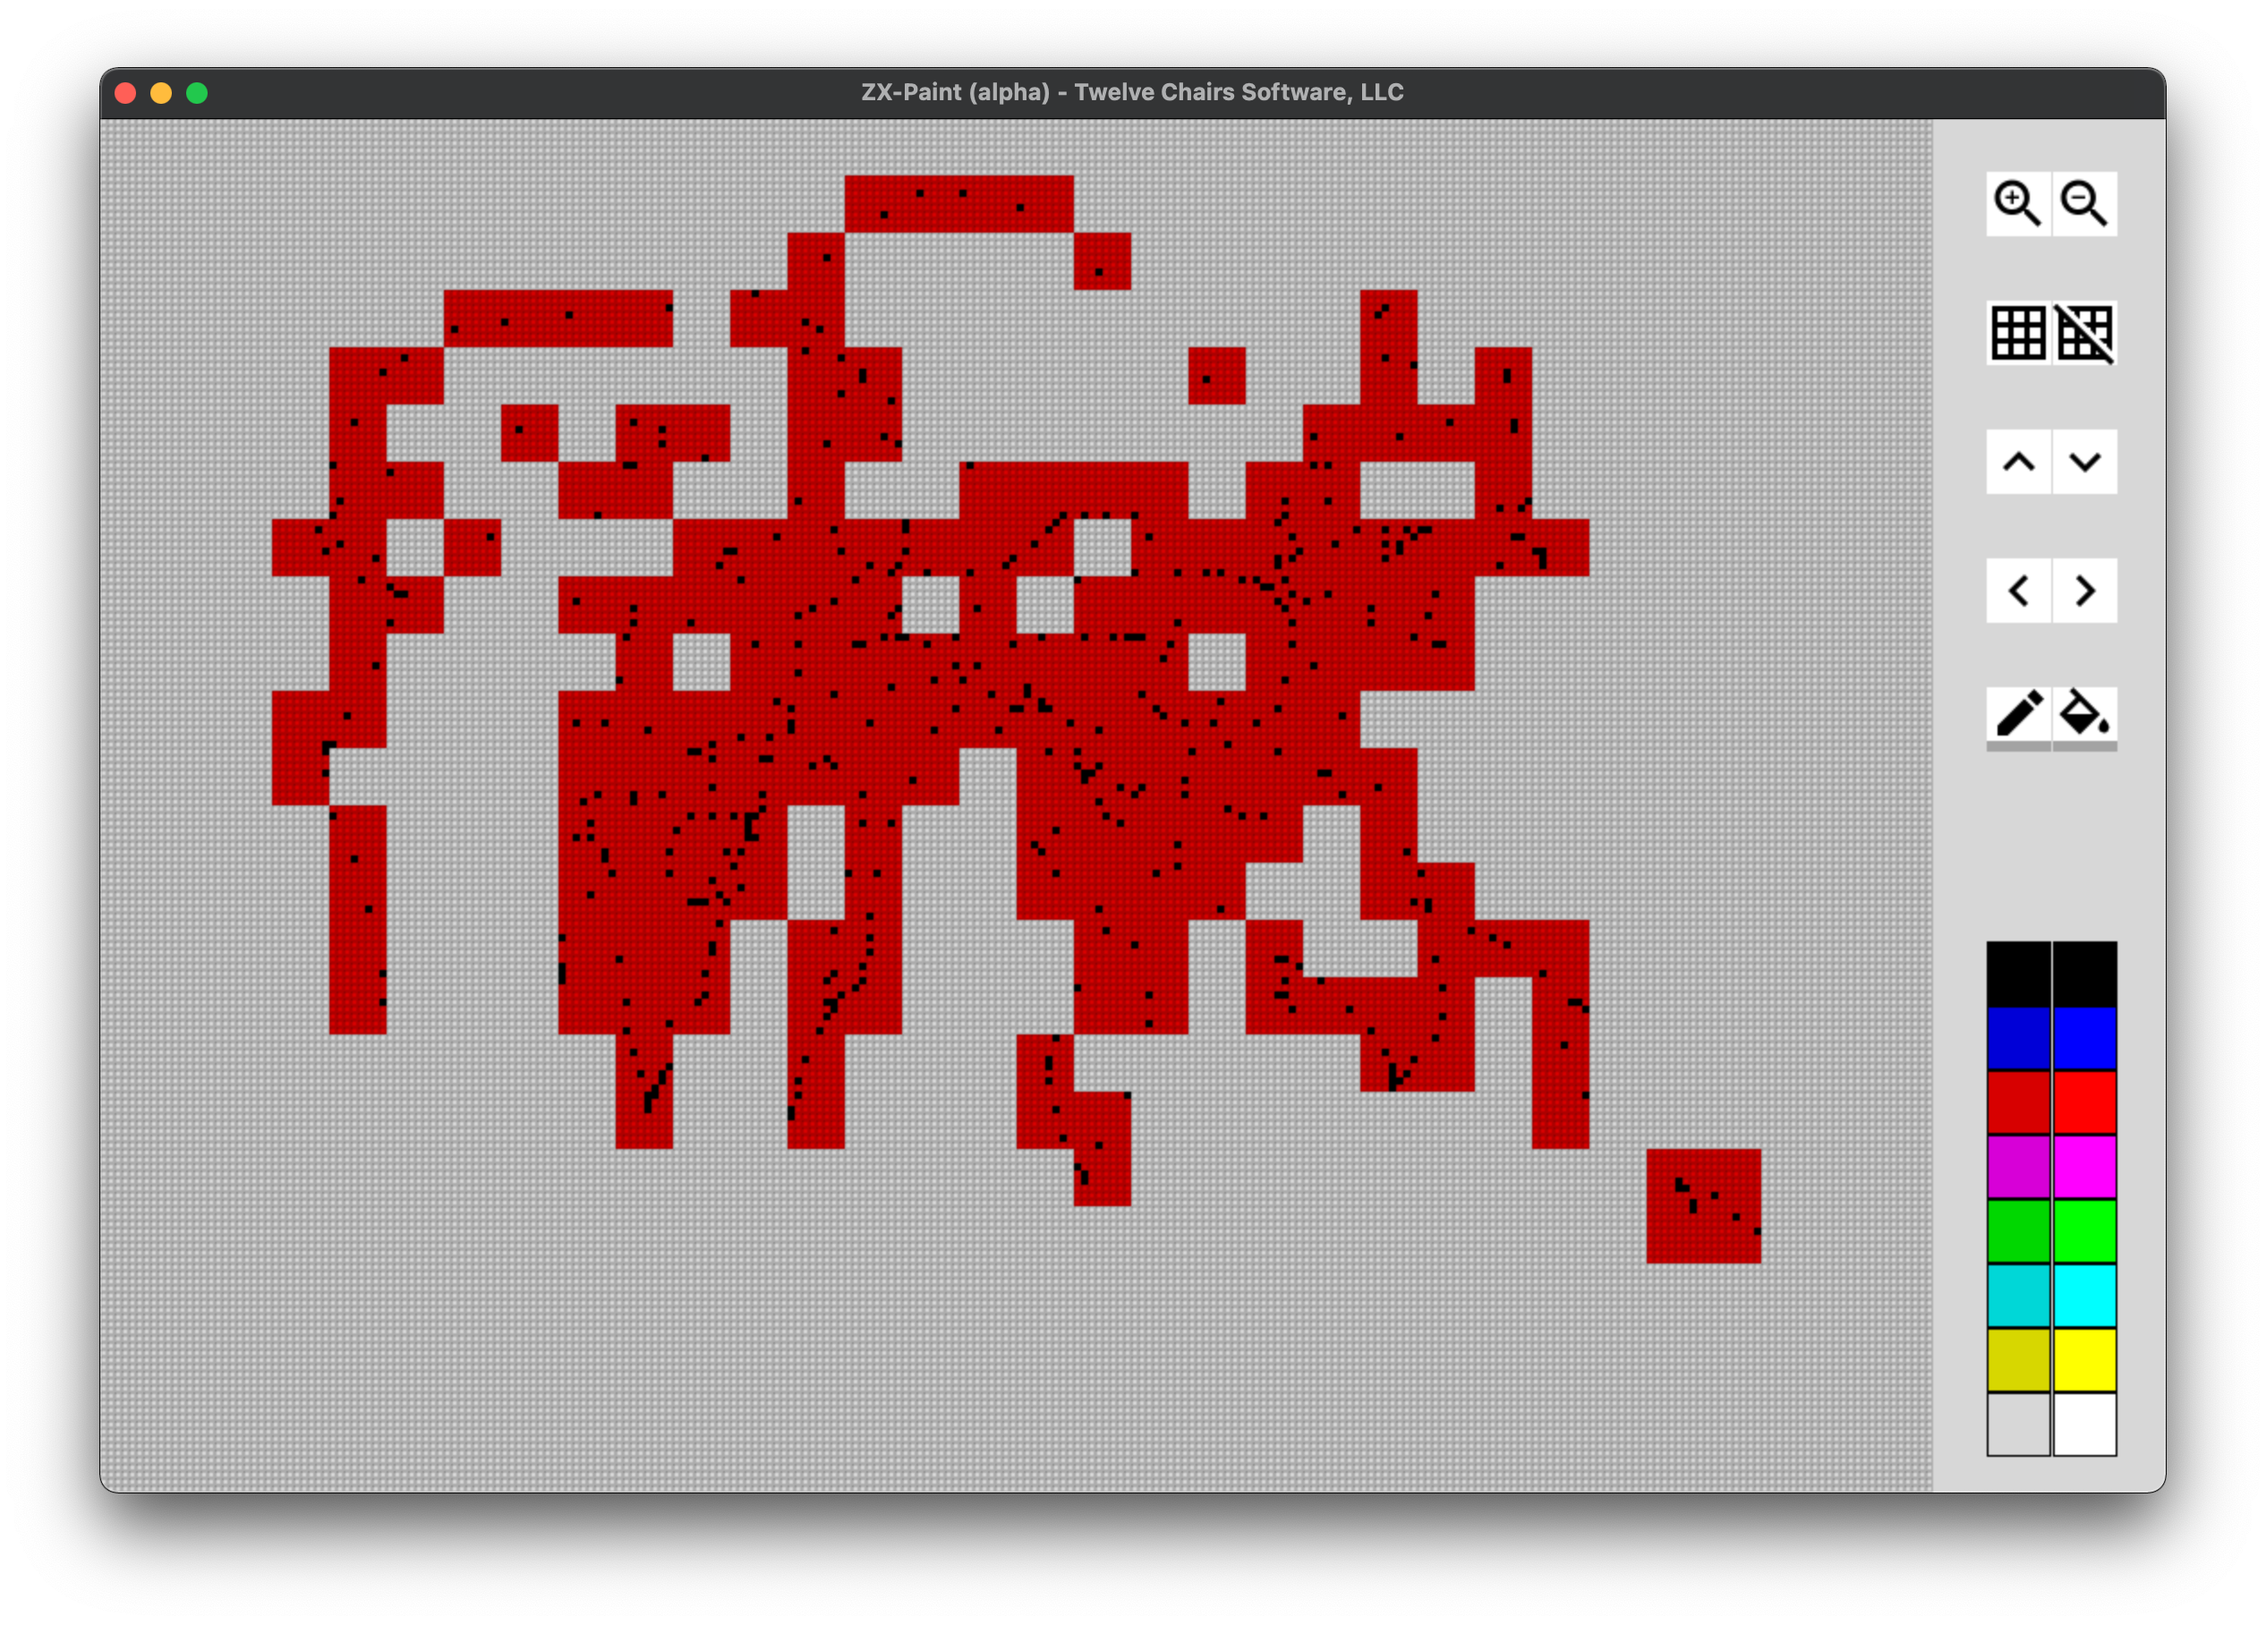
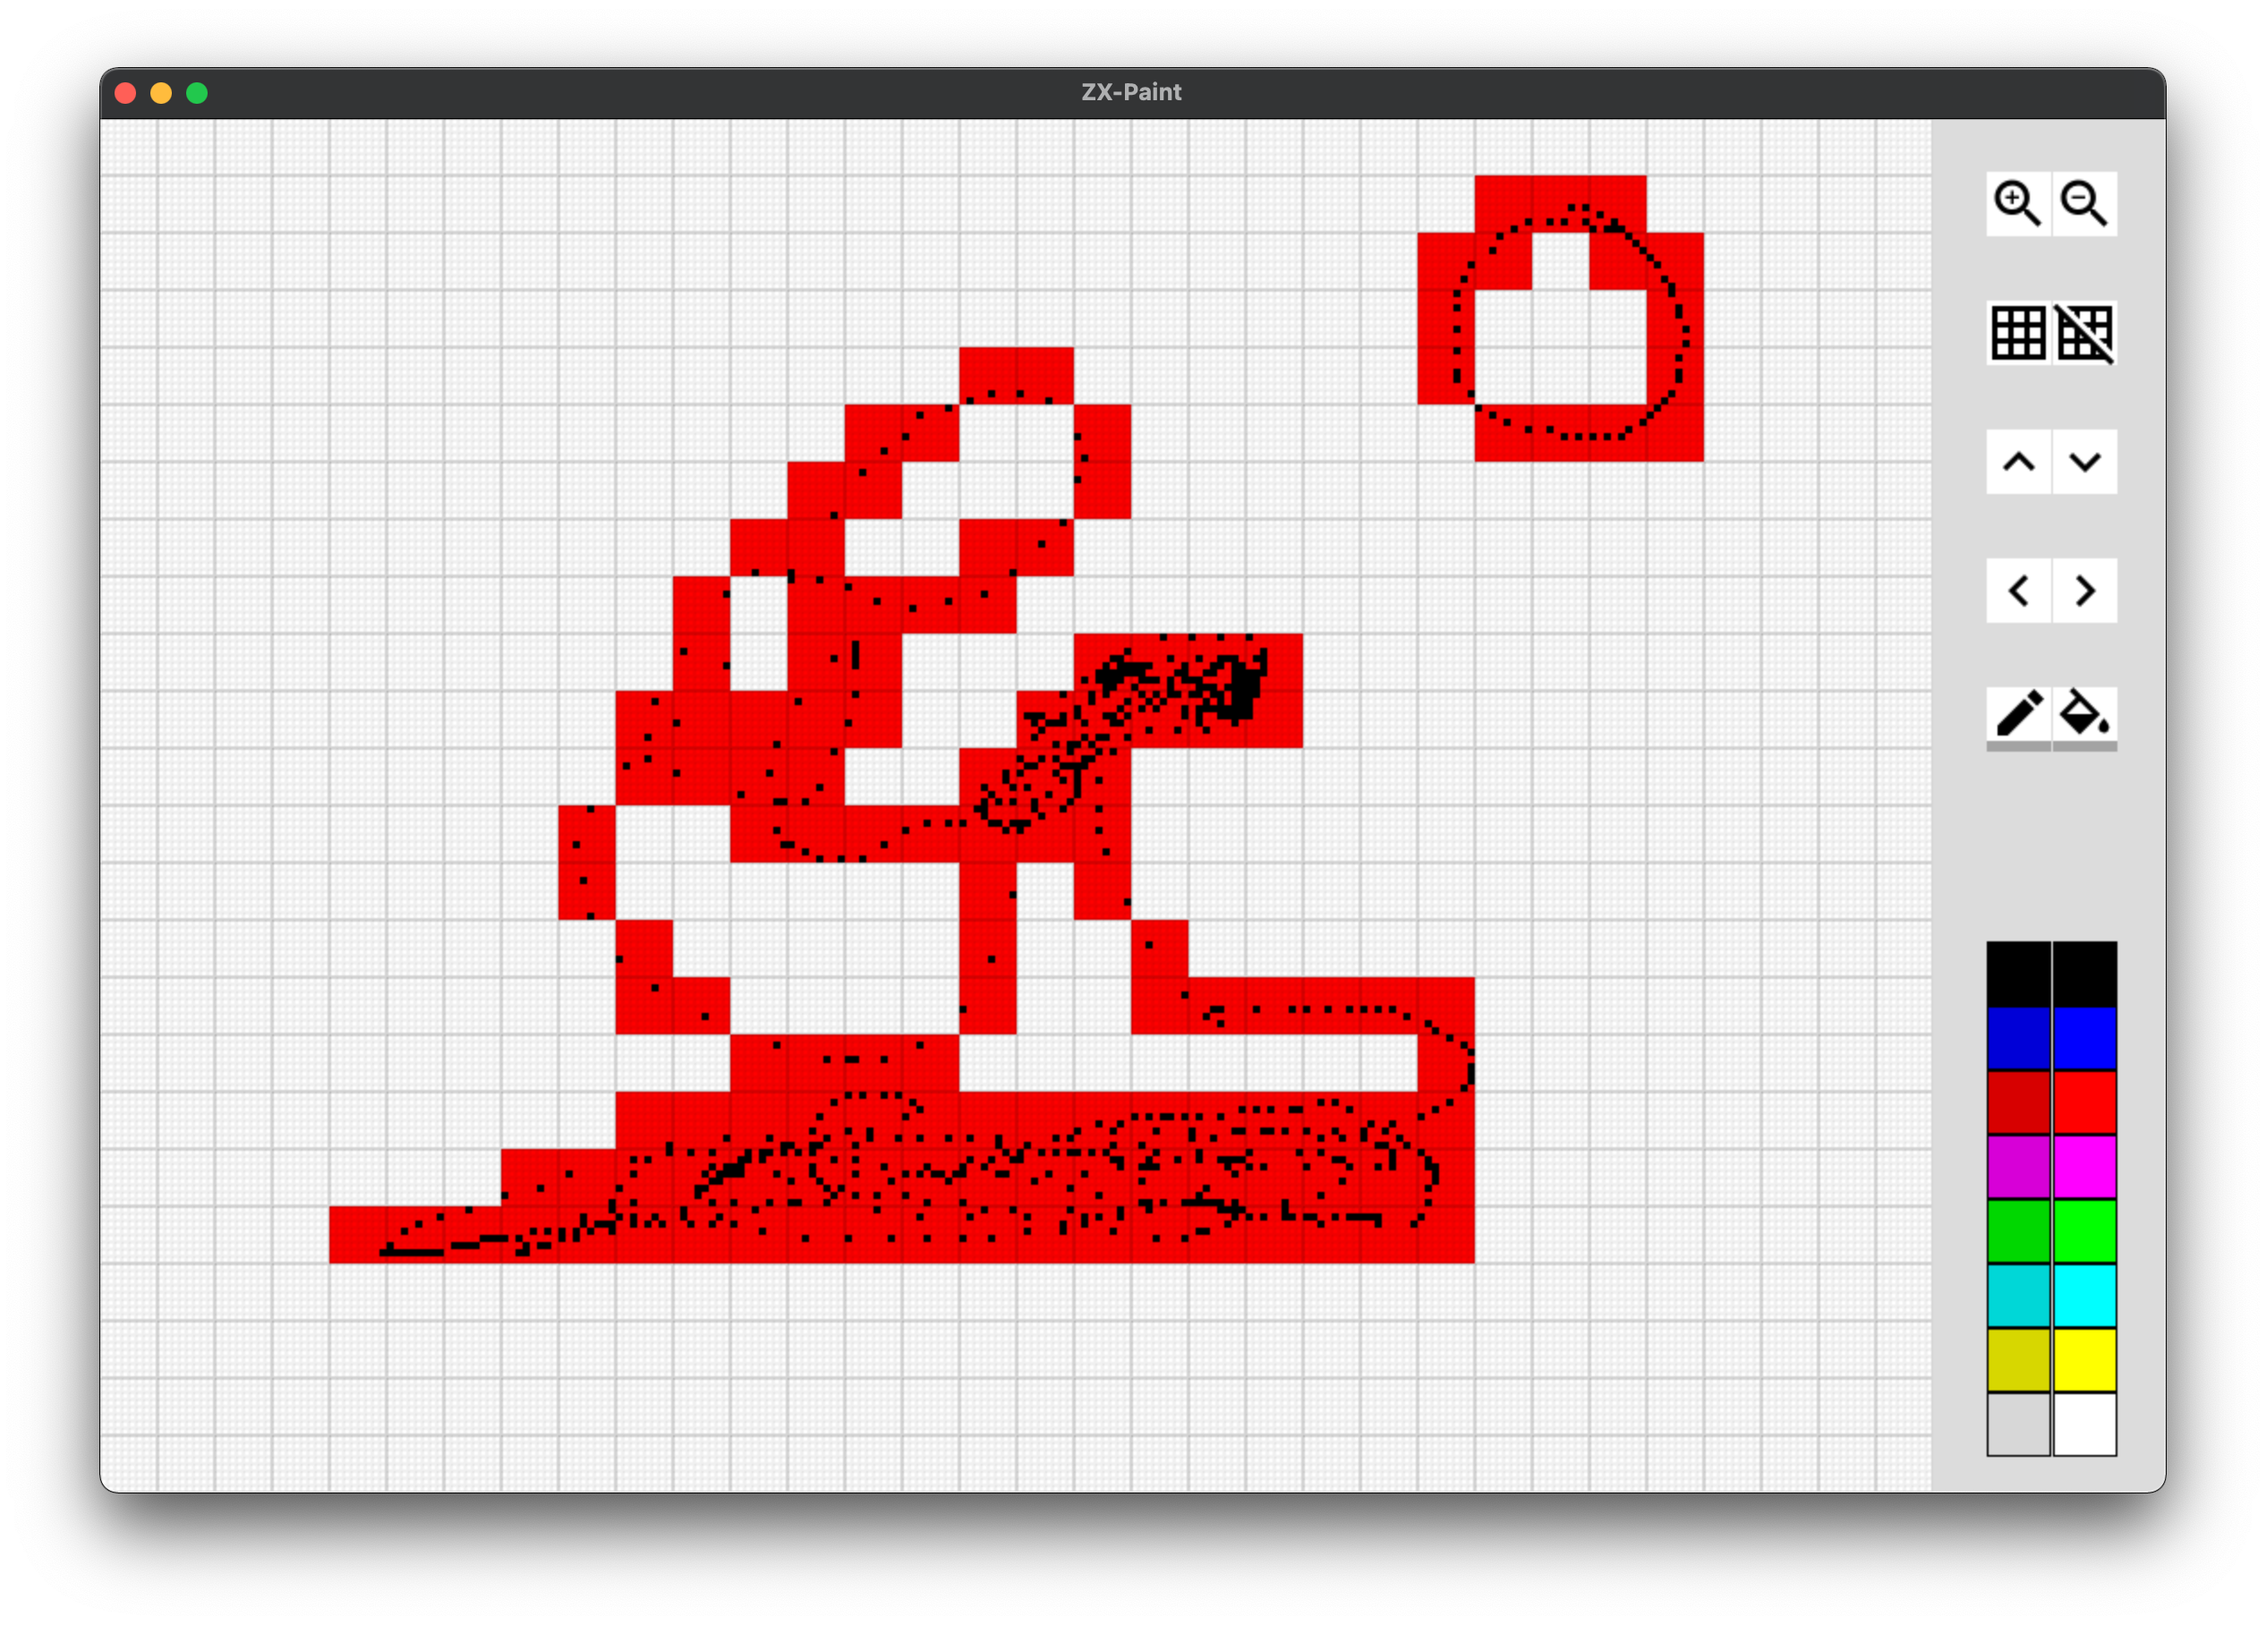
Better grid

diff --git a/src/main.cpp b/src/main.cpp
@@ -7,7 +7,7 @@ bool initSDL() {
             return false;
         }
 
-        mainWindow = SDL_CreateWindow("ZX-Paint (alpha) - Twelve Chairs Software, LLC", SDL_WINDOWPOS_CENTERED, SDL_WINDOWPOS_CENTERED,
+        mainWindow = SDL_CreateWindow("ZX-Paint", SDL_WINDOWPOS_CENTERED, SDL_WINDOWPOS_CENTERED,
                                       maxScreenWidth, maxScreenHeight, SDL_WINDOW_RESIZABLE);
         if (mainWindow == nullptr){
             spdlog::error(SDL_GetError());
@@ -43,7 +43,7 @@ void exitSDL(){
 
 void rightMenu(){
     SDL_Rect fillRect = {maxScreenWidth - 130, 0, 130, maxScreenHeight};
-    SDL_SetRenderDrawColor(mainRender, 215, 215, 215, SDL_ALPHA_OPAQUE);
+    SDL_SetRenderDrawColor(mainRender, 220, 220, 220, SDL_ALPHA_OPAQUE);
     SDL_RenderFillRect(mainRender, &fillRect);
 }
 
@@ -51,11 +51,6 @@ void drawScreen(int zoomLevel){
     try {
         SDL_Rect fillRect;
         int attributeGridSize = zoomLevel * 8;
-
-        if (mouseLocation.clicked){
-            pixels[mouseLocation.x / pixelSize][mouseLocation.y / pixelSize] = true;
-            attributes[(mouseLocation.x / pixelSize) / 8][(mouseLocation.y / pixelSize) / 8].paper = 2;
-        }
 
         for (int y = 0; y < attributes[0].size(); y++) {
             for (int x = 0; x < attributes.size(); x++) {
@@ -98,7 +93,18 @@ void drawGrid(int zoomLevel){
                     fillRect = {x * zoomLevel, y * zoomLevel, zoomLevel, zoomLevel};
                     if (zoomLevel >= 4) {
                         SDL_SetRenderDrawBlendMode(mainRender, SDL_BLENDMODE_BLEND);
-                        SDL_SetRenderDrawColor(mainRender, 0, 0, 0, 50);
+                        SDL_SetRenderDrawColor(mainRender, 0, 0, 0, 15);
+                        SDL_RenderDrawRect(mainRender, &fillRect);
+                    }
+                }
+            }
+            // Major ticks
+            for (int y = 0; y <= attributes[0].size(); y++) {
+                for (int x = 0; x < attributes.size(); x++) {
+                    fillRect = {x * attributeSize, y * attributeSize, attributeSize, attributeSize};
+                    if (zoomLevel >= 4) {
+                        SDL_SetRenderDrawBlendMode(mainRender, SDL_BLENDMODE_BLEND);
+                        SDL_SetRenderDrawColor(mainRender, 0, 0, 0, 30);
                         SDL_RenderDrawRect(mainRender, &fillRect);
                     }
                 }
@@ -127,6 +133,64 @@ void colorSelector(){
             SDL_RenderDrawRect(mainRender, &fillRect);
             subindex++;
         }
+    }
+}
+
+void mouseEvents(int index){
+    try {
+        if (mouseLocation.clicked) {
+            if (mouseLocation.x / pixelSize < pixels.size()) {
+                pixels[mouseLocation.x / pixelSize][mouseLocation.y / pixelSize] = true;
+                attributes[(mouseLocation.x / pixelSize) / 8][(mouseLocation.y / pixelSize) / 8] = {
+                        selectedColors.ink,
+                        selectedColors.paper,
+                        selectedColors.bright
+                };
+            }
+            else {
+                if ((iconLocations[index].x1 <= mouseLocation.x && mouseLocation.x <= iconLocations[index].x2) &&
+                    (iconLocations[index].y1 <= mouseLocation.y && mouseLocation.y <= iconLocations[index].y2)) {
+                    iconLocations[index].selected = true;
+
+                    // Click events
+                    switch (index) {
+                        case 0:
+                            if (pixelSize <= 200) {
+                                pixelSize += 1;
+                            }
+                            break;
+                        case 1:
+                            if (pixelSize >= 2) {
+                                pixelSize -= 1;
+                            }
+                            break;
+                        case 2:
+                            showGrid = true;
+                            break;
+                        case 3:
+                            showGrid = false;
+                            break;
+                        default:
+                            break;
+                    }
+                }
+                else {
+                    iconLocations[index].selected = false;
+                }
+            }
+        }
+        else {
+            if ((iconLocations[index].x1 <= mouseLocation.x && mouseLocation.x <= iconLocations[index].x2) &&
+                (iconLocations[index].y1 <= mouseLocation.y && mouseLocation.y <= iconLocations[index].y2)) {
+                iconLocations[index].hover = true;
+            }
+            else {
+                iconLocations[index].hover = false;
+            }
+        }
+    }
+    catch (std::exception &e){
+        spdlog::error(e.what());
     }
 }
 
@@ -160,6 +224,7 @@ void drawIcons(){
             iconLocations[index].x1 = startingPositionX + blockSize + 1;
             iconLocations[index].x2 = (startingPositionX + blockSize + 1) + blockSize;
         }
+
         iconLocations[index].y1 = (index * blockSize) + startingPositionY;
         iconLocations[index].y2 = ((index * blockSize) + startingPositionY) + blockSize;
 
@@ -172,34 +237,12 @@ void drawIcons(){
         SDL_RenderCopy(mainRender, texture, nullptr, &bitmapLayer);
         SDL_DestroyTexture(texture);
 
-        for (auto _: iconLocations){
-            if ((iconLocations[index].x1 <= mouseLocation.x && mouseLocation.x <= iconLocations[index].x2) &&
-                (iconLocations[index].y1 <= mouseLocation.y && mouseLocation.y <= iconLocations[index].y2)){
-                iconLocations[index].hover = true;
-
-                SDL_SetRenderDrawColor(mainRender, 0, 0, 0, SDL_ALPHA_OPAQUE);
-                SDL_RenderDrawRect(mainRender, &outlineRect);
-                if (index == 0 && mouseLocation.clicked) {
-                    if (pixelSize <= 200){
-                        pixelSize += 1;
-                    }
-                }
-                if (index == 1 && mouseLocation.clicked) {
-                    if (pixelSize >= 2) {
-                        pixelSize -= 1;
-                    }
-                }
-                if (index == 2 && mouseLocation.clicked) {
-                    showGrid = true;
-                }
-                if (index == 3 && mouseLocation.clicked) {
-                    showGrid = false;
-                }
-            }
-            else {
-                iconLocations[index].hover = false;
-            }
+        if (iconLocations[index].hover) {
+            SDL_SetRenderDrawColor(mainRender, 0, 0, 0, SDL_ALPHA_OPAQUE);
+            SDL_RenderDrawRect(mainRender, &outlineRect);
         }
+
+        mouseEvents(index);
 
         index++;
     }
@@ -210,12 +253,14 @@ int main(int argc, char* args[]){
         startTick = SDL_GetPerformanceCounter();
         endTick = startTick;
 
-        attribute selectedColors = {0, 7, false};
+        selectedColors = {0, 7, true};
 
         // 256x192 (1x1) pixels
         pixels = {256, std::vector<bool>(192,false)};
         // 32x24 (8x8) attributes
         attributes = {32, std::vector<attribute>(24, selectedColors)};
+
+        selectedColors = {0, 2, true};
 
         colorPalette = {
                 {
@@ -246,7 +291,8 @@ int main(int argc, char* args[]){
                     location.y1 = 0,
                     location.x2 = 0,
                     location.y2 = 0,
-                    location.hover = false
+                    location.hover = false,
+                    location.selected = false
             };
             iconLocations.push_back(location);
         }
@@ -266,7 +312,6 @@ int main(int argc, char* args[]){
 
             while (mainLoopRunning) {
                 startTick = SDL_GetPerformanceCounter();
-                int index = 0;
                 // Get events for main loop
                 while (SDL_PollEvent(&e) != 0) {
                     switch (e.type){

diff --git a/src/main.h b/src/main.h
@@ -49,7 +49,10 @@ struct iconLocation {
     int x2;
     int y2;
     bool hover;
+    bool selected;
 };
+
+attribute selectedColors;
 
 std::vector<std::vector<rgb>> colorPalette;
 std::vector<iconLocation> iconLocations;
